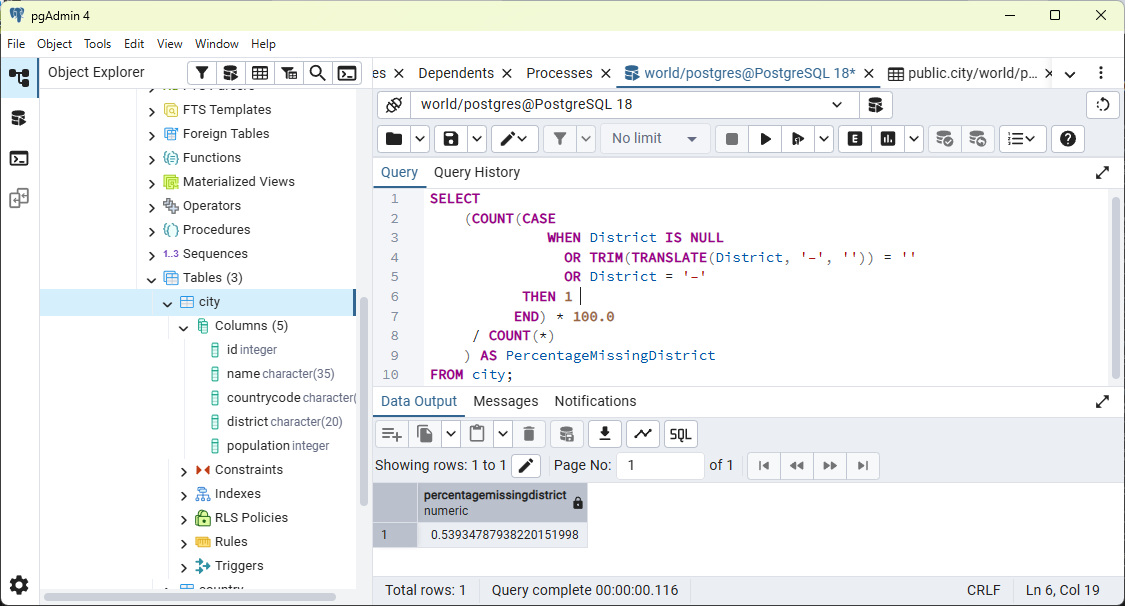
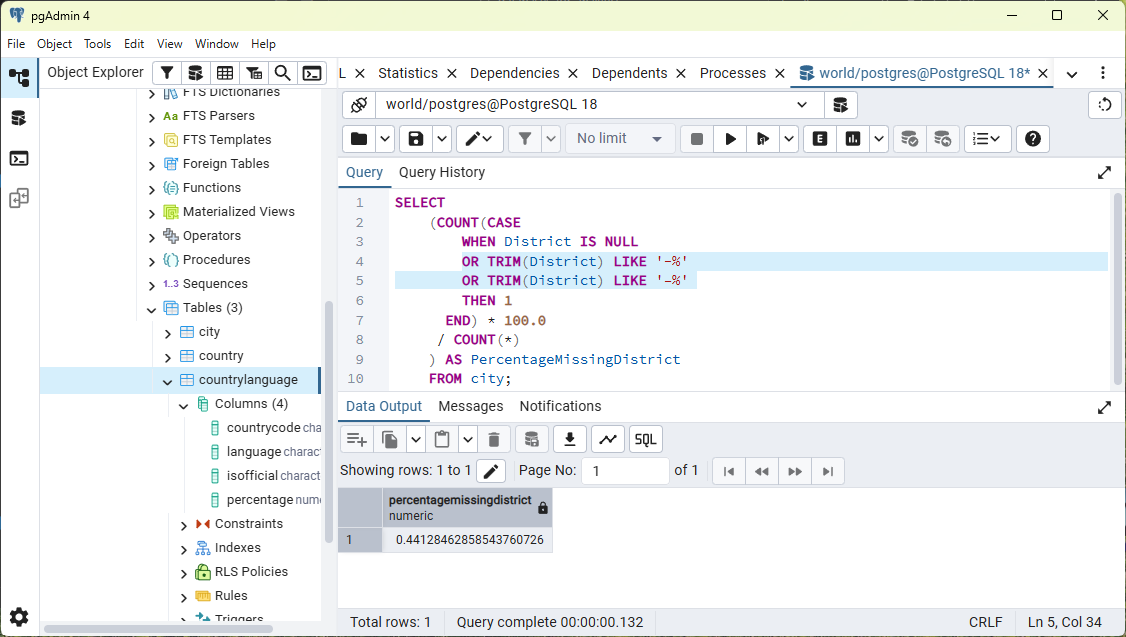
update exercise02

Changed region(s): [[0.0, 0.0, 1.0, 1.0], [0.0, 0.2376, 0.0311, 0.3564]]

diff --git a/exercises/exercise02.md b/exercises/exercise02.md
@@ -248,15 +248,15 @@ Using the World database, write the SQL command to **calculate the percentage of
 
 ```sql
 SELECT 
-    (COUNT(CASE 
-              WHEN District IS NULL 
-                OR TRIM(TRANSLATE(District, '–', '')) = ''
-                OR District = '–' 
-           THEN 1 
-          END) * 100.0 
-     / COUNT(*)
-    ) AS PercentageMissingDistrict
-FROM city;
+      (COUNT(CASE 
+            WHEN District IS NULL 
+            OR TRIM(District) LIKE '-%'
+    	      OR TRIM(District) LIKE '–%' 
+            THEN 1 
+            END) * 100.0 
+      / COUNT(*)
+      ) AS PercentageMissingDistrict
+      FROM city;
 ```
 
 ### Screenshot
